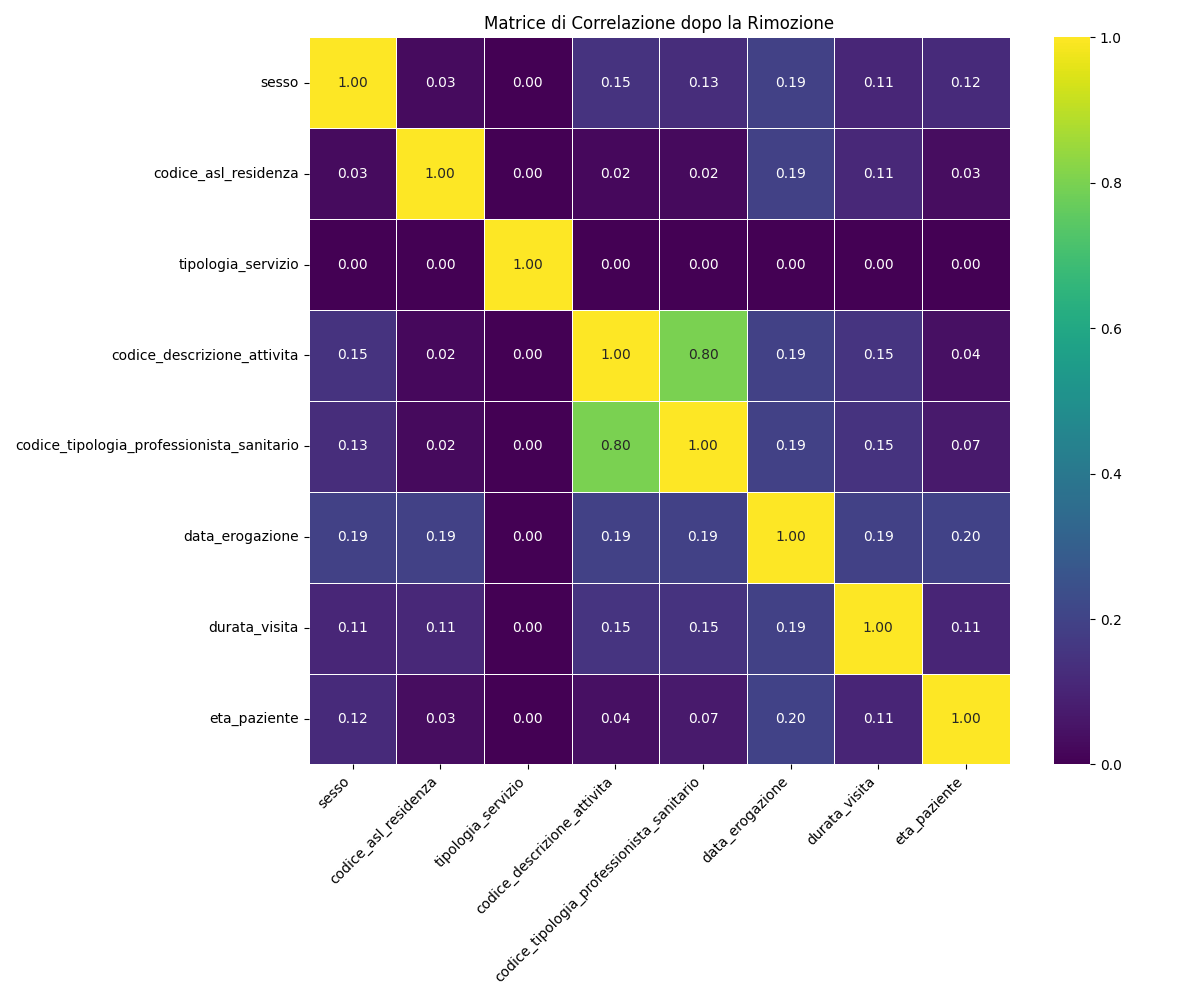
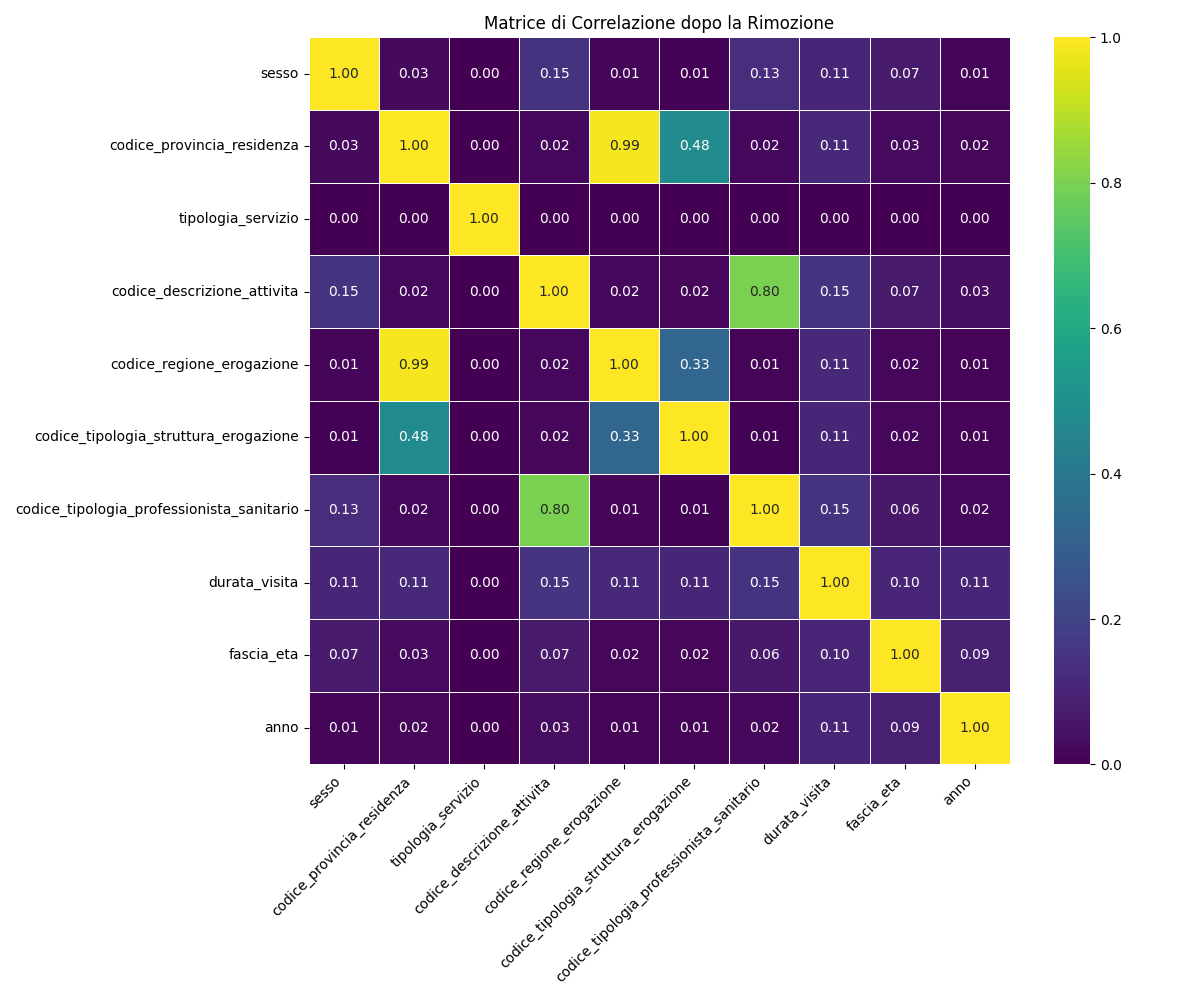
aggiornamento classe FeatureSelection con sistema di rimozione dinamica delle colonne correlate, lasciando quella "principale" per rappresentare le colonne simili

diff --git a/dataprocessing/FeatureSelection.py b/dataprocessing/FeatureSelection.py
@@ -64,13 +64,31 @@ class FeatureSelection:
 
     def remove_perfectly_correlated_features(self, corr_matrix):
         logging.info("Rimozione delle colonne con correlazione perfetta (1.0)")
-        # Identifica le colonne che hanno una correlazione perfetta (1) con altre colonne e le rimuove
         to_drop = set()
+
         for i in range(len(corr_matrix.columns)):
             for j in range(i):
                 if corr_matrix.iloc[i, j] == 1.0:
-                    to_drop.add(corr_matrix.columns[i])
-        
+                    col1 = corr_matrix.columns[i]
+                    col2 = corr_matrix.columns[j]
+                    
+                    # Calcola la cardinalità e i valori nulli per decidere quale colonna tenere
+                    col1_cardinality = self.df[col1].nunique()
+                    col2_cardinality = self.df[col2].nunique()
+                    col1_nulls = self.df[col1].isnull().sum()
+                    col2_nulls = self.df[col2].isnull().sum()
+
+                    # Logica per decidere quale colonna mantenere
+                    if col1_cardinality < col2_cardinality:
+                        to_drop.add(col2)
+                    elif col1_cardinality > col2_cardinality:
+                        to_drop.add(col1)
+                    else:  # Se la cardinalità è uguale, considera i valori nulli
+                        if col1_nulls > col2_nulls:
+                            to_drop.add(col1)
+                        else:
+                            to_drop.add(col2)
+
         if to_drop:
             logging.info(f"Colonne rimosse per correlazione perfetta: {list(to_drop)}")
         else:
@@ -125,7 +143,7 @@ class FeatureSelection:
         plt.close()
         logging.info(f"Heatmap salvata con successo in {filepath}")
 
-    def execute_feature_selection(self, threshold=0.8):
+    def execute_feature_selection(self, threshold=0.8, remove_others_colum_by_threshold=False):
         """
         Esegue l'intero processo di selezione delle caratteristiche.
         Parametri:
@@ -139,22 +157,23 @@ class FeatureSelection:
         initial_corr_matrix = self.create_correlation_matrix()
 
         # Visualizza e salva la heatmap originale
-        self.display_heatmap(initial_corr_matrix, "Matrice di Correlazione Completa", "heatmap_initial.png")
+        self.display_heatmap(initial_corr_matrix, "Matrice di Correlazione Originale", "heatmap_initial.png")
         
         # Rimuove le colonne con correlazione perfetta
         self.remove_perfectly_correlated_features(initial_corr_matrix)
         
-        # Aggiorna la matrice di correlazione dopo aver rimosso le colonne perfettamente correlate
-        updated_corr_matrix = self.create_correlation_matrix()
+        if(remove_others_colum_by_threshold):
+            # Aggiorna la matrice di correlazione dopo aver rimosso le colonne perfettamente correlate
+            updated_corr_matrix = self.create_correlation_matrix()
 
-        # Rimuove le colonne altamente correlate
-        self.remove_highly_correlated_features(updated_corr_matrix, threshold)
+            # Rimuove le colonne altamente correlate
+            self.remove_highly_correlated_features(updated_corr_matrix, threshold)
         
         # Crea una nuova matrice di correlazione dopo la rimozione delle colonne
         final_corr_matrix = self.create_correlation_matrix()
 
         # Visualizza e salva la heatmap finale
-        self.display_heatmap(final_corr_matrix, "Matrice di Correlazione dopo la Rimozione", "heatmap_final.png")
+        self.display_heatmap(final_corr_matrix, "Matrice di Correlazione Finale", "heatmap_final.png")
         
         logging.info("Selezione delle caratteristiche completata con successo")
         # Restituisce il DataFrame finale

diff --git a/dataprocessing/ManageData.py b/dataprocessing/ManageData.py
@@ -100,5 +100,5 @@ class ManageData:
         self.set_dataset(df)
 
         featureSelection = FeatureSelection(df)
-        featureSelection.execute_feature_selection()
+        featureSelection.execute_feature_selection(remove_others_colum_by_threshold=False)
 
